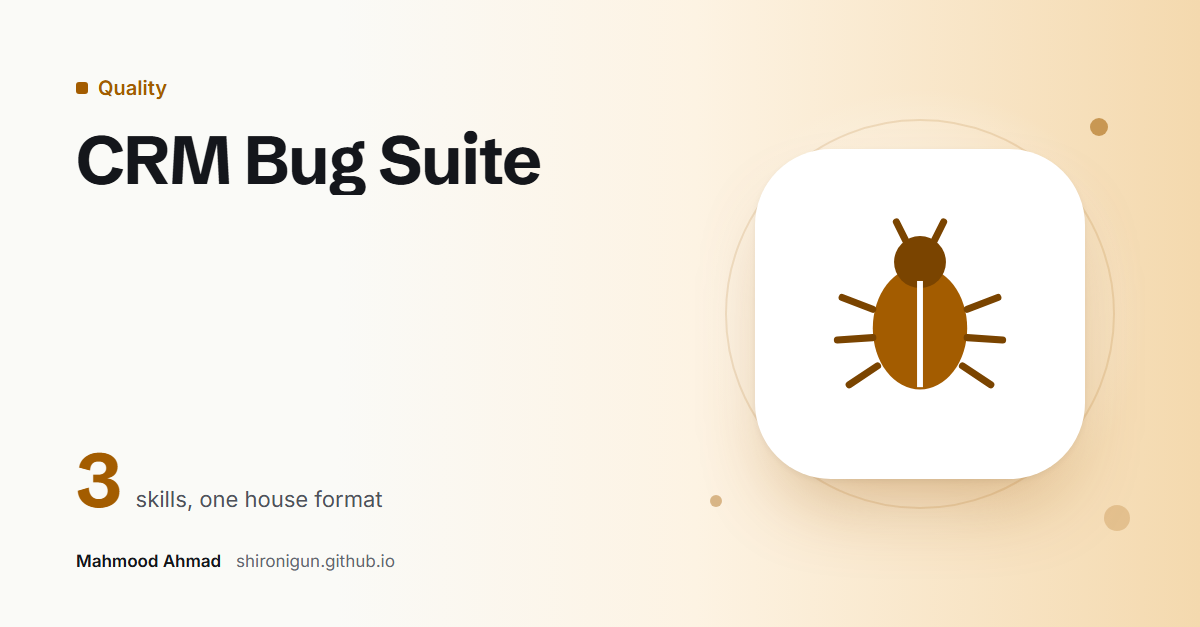
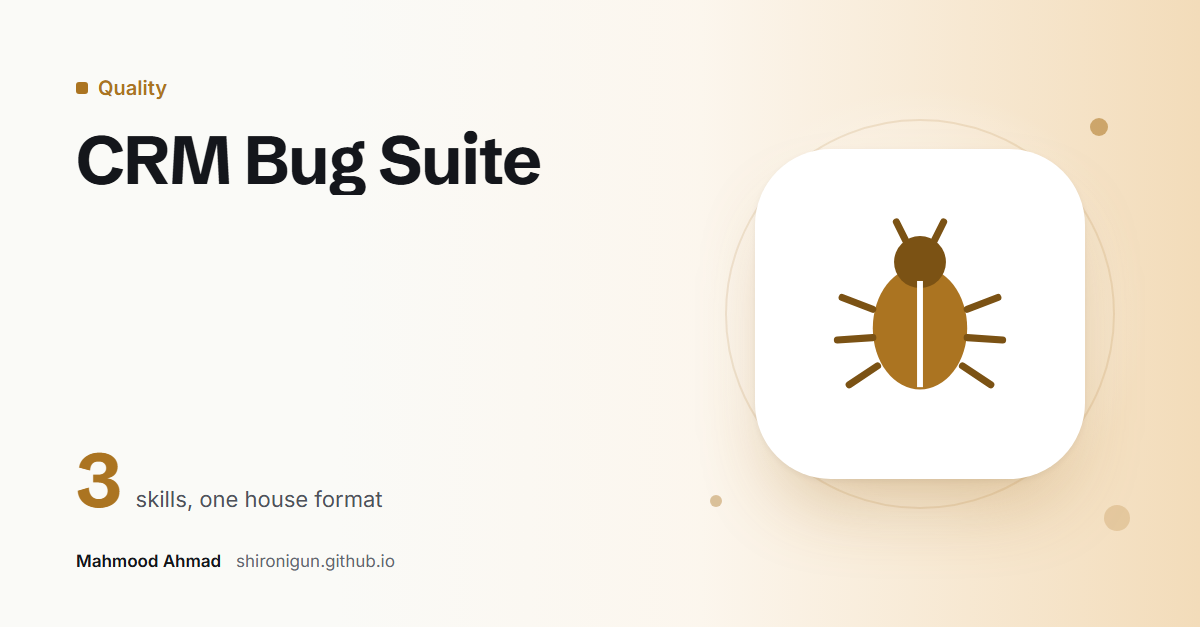
Preview cards: a distinct colour for every project
31 hues spread around the wheel, ordered so neighbours differ; Postman
keeps its orange; yellows darkened for readable text. Preview version
bumped so LinkedIn fetches the new images.

Changed region(s): [[0.7092, 0.4242, 0.8325, 0.6364], [0.0617, 0.7273, 0.1233, 0.8182], [0.0617, 0.1212, 0.1542, 0.1515]]

diff --git a/src/pages/OgPictures.jsx b/src/pages/OgPictures.jsx
@@ -305,9 +305,20 @@ const MAP = {
   beacon: ['beacon', 'product'],
 };
 
+// Every project gets its own colour: 31 hues spread around the wheel, ordered so that projects
+// next to each other in the list land far apart. Postman keeps its orange.
+const SLUGS = Object.keys(MAP);
+function colourFor(slug) {
+  if (slug === 'postman-evaluation') return PALETTE.postman;
+  const i = Math.max(0, SLUGS.indexOf(slug));
+  const hue = Math.round(((i * 13) % SLUGS.length) * (360 / SLUGS.length) + 210) % 360;
+  const light = hue >= 40 && hue <= 100 ? 31 : 40; // yellows need more depth to read as text
+  return [`hsl(${hue} 68% ${light}%)`, `hsl(${hue} 70% 96%)`, `hsl(${hue} 72% ${light - 12}%)`, `hsl(${hue} 70% 84%)`];
+}
+
 export function pictureFor(slug) {
-  const [name, pal] = MAP[slug] || ['docs', 'product'];
-  const [c, w, d, t] = PALETTE[pal];
+  const [name] = MAP[slug] || ['docs'];
+  const [c, w, d, t] = colourFor(slug);
   const Pic = P[name];
   return { wash: w, accent: c, tint: t, svg: <svg viewBox="0 0 200 200" width="236" height="236" aria-hidden="true"><Pic c={c} w={w} d={d} /></svg> };
 }

diff --git a/public/labs/skills-evals-lab.html b/public/labs/skills-evals-lab.html
@@ -9,7 +9,7 @@
 <meta property="og:title" content="Skills Evals Lab: a 17-lesson course on testing AI skills">
 <meta property="og:description" content="A beginner course on testing AI skills: 17 lessons, about three hours and six hands-on labs. A case counts only when it passes 3 runs of 3.">
 <meta property="og:url" content="https://shironigun.github.io/labs/skills-evals-lab.html">
-<meta property="og:image" content="https://shironigun.github.io/images/previews/ai-evaluation.png?v=2026-11-21b">
+<meta property="og:image" content="https://shironigun.github.io/images/previews/ai-evaluation.png?v=2026-11-21c">
 <meta property="og:image:width" content="1200">
 <meta property="og:image:height" content="627">
 <meta name="twitter:card" content="summary_large_image">
